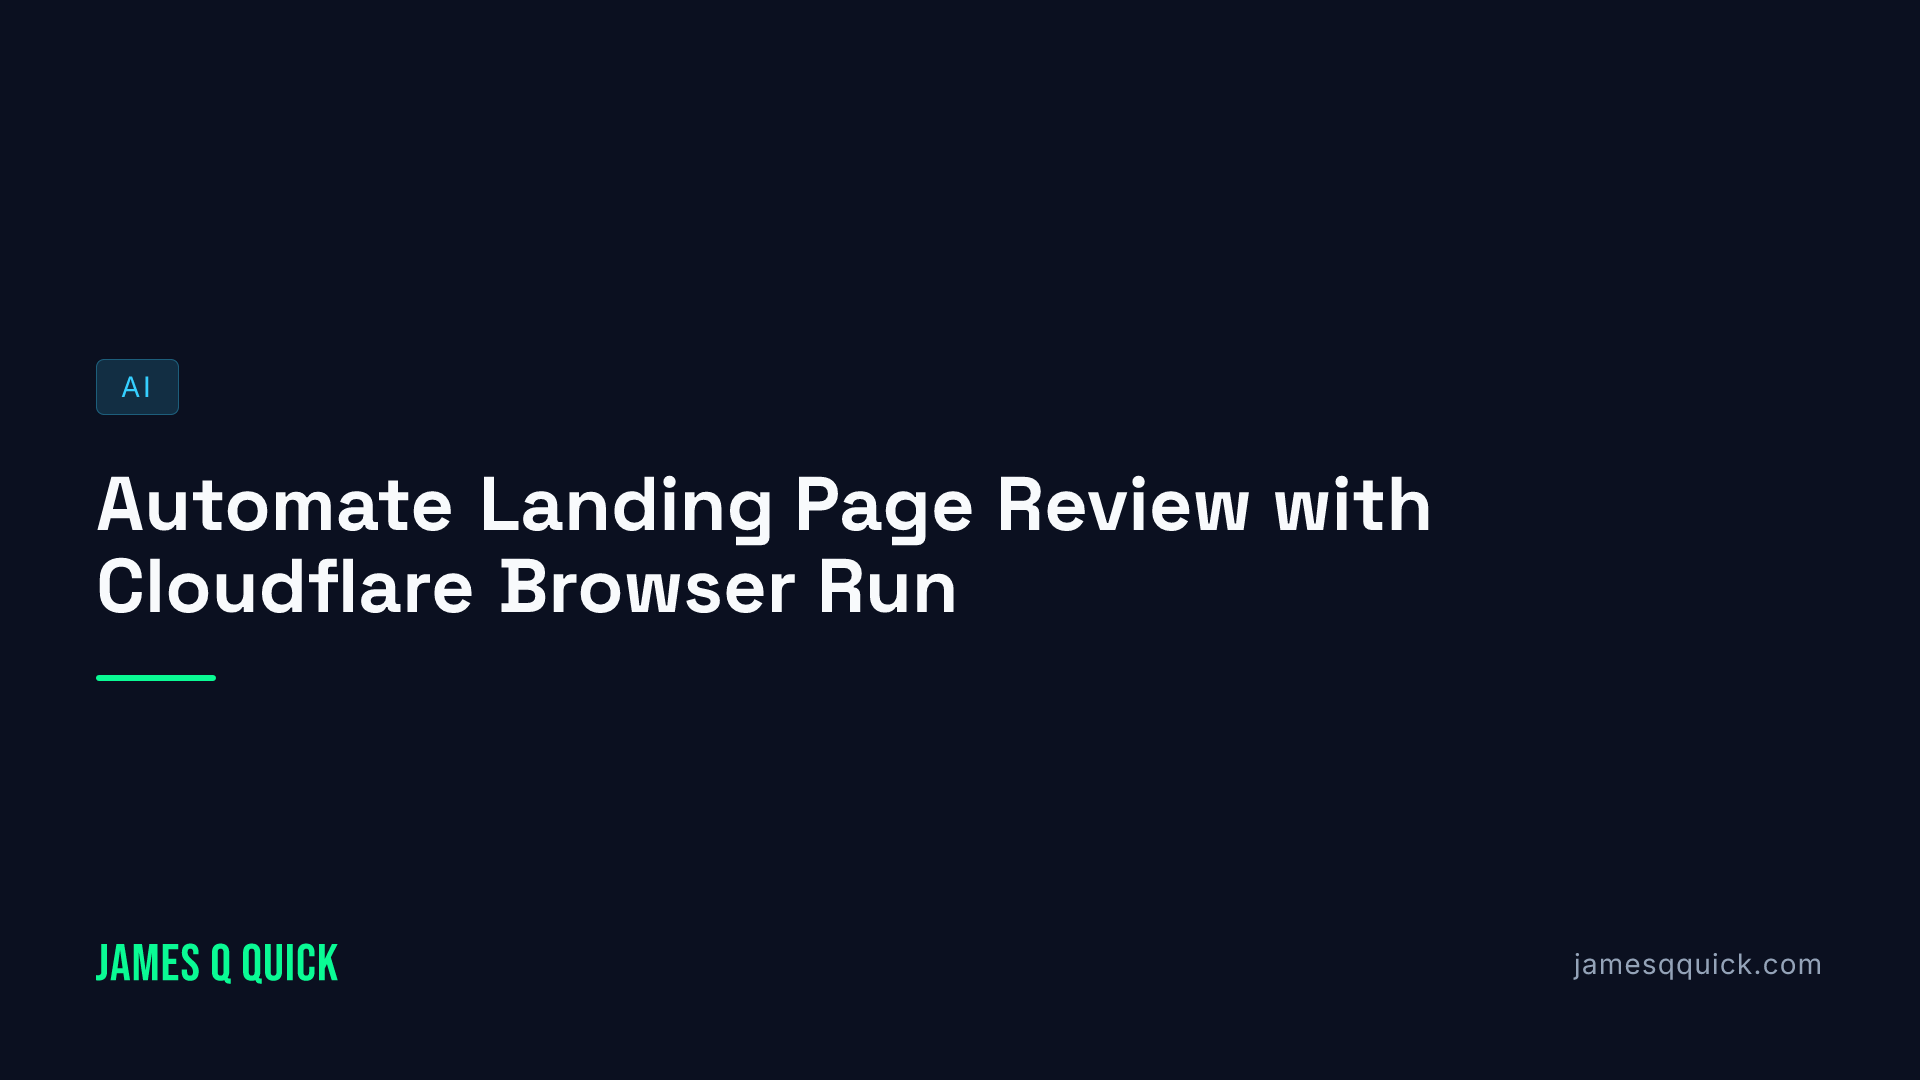
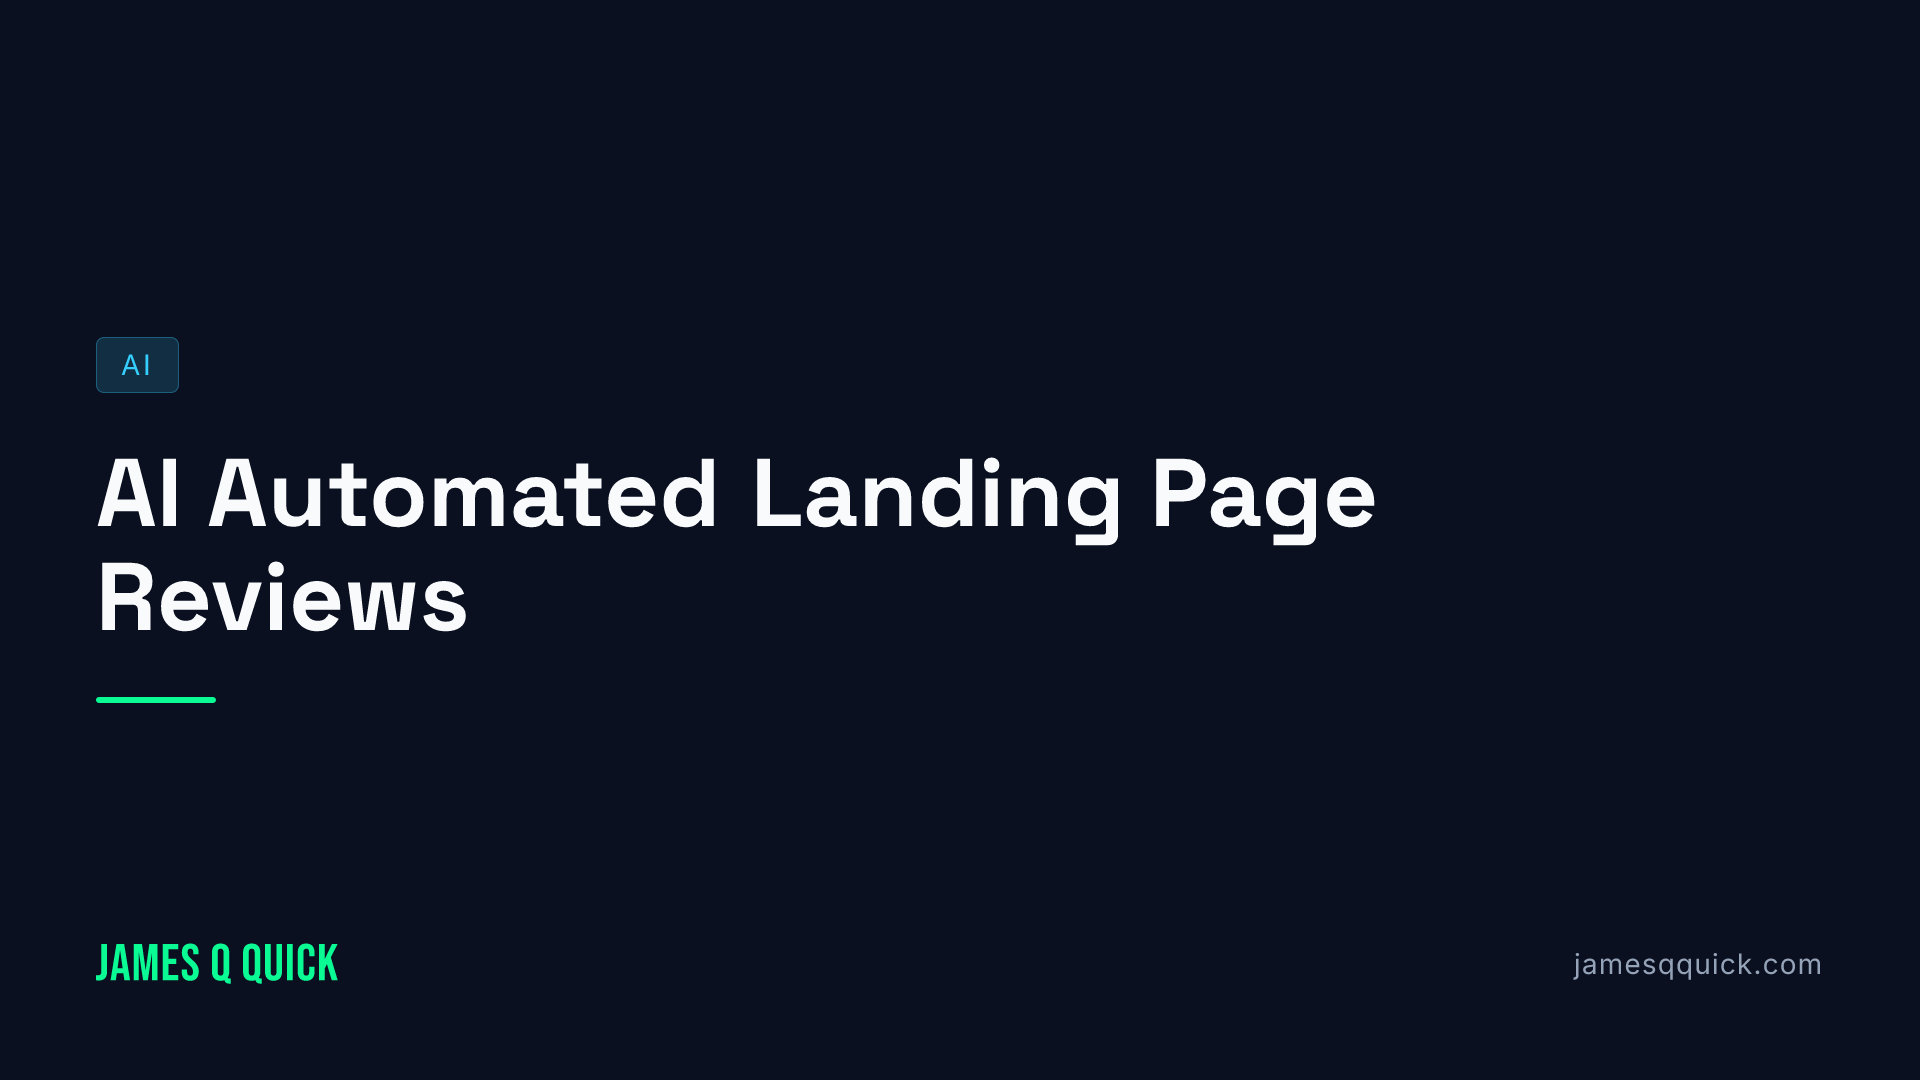
feat(blog): rename landing page review post

Changed region(s): [[0.0312, 0.4278, 0.75, 0.5806], [0.0312, 0.3056, 0.0938, 0.3972], [0.0625, 0.6111, 0.125, 0.6722]]

diff --git a/src/data/blog/automate-landing-page-review-cloudflare-browser-run/index.md b/src/data/blog/automate-landing-page-review-cloudflare-browser-run/index.md
@@ -1,5 +1,5 @@
 ---
-title: Automate Landing Page Review with Cloudflare Browser Run
+title: AI Automated Landing Page Reviews
 slug: automate-landing-page-review-cloudflare-browser-run
 pubDate: 2026-09-22T00:00:00.000Z
 description: Build an Astro API that captures a landing page with Browser Run, grades its message with Workers AI, and caches the result in KV.
